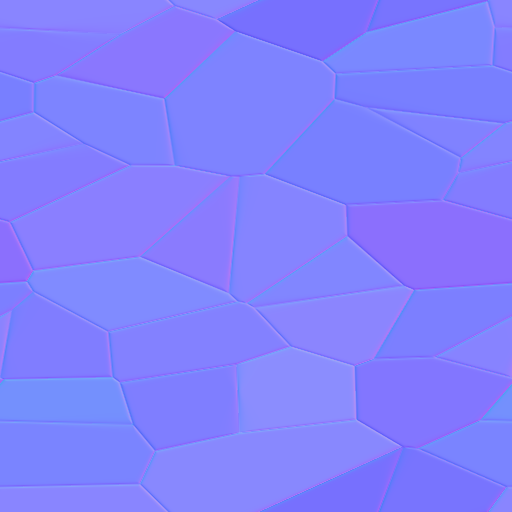
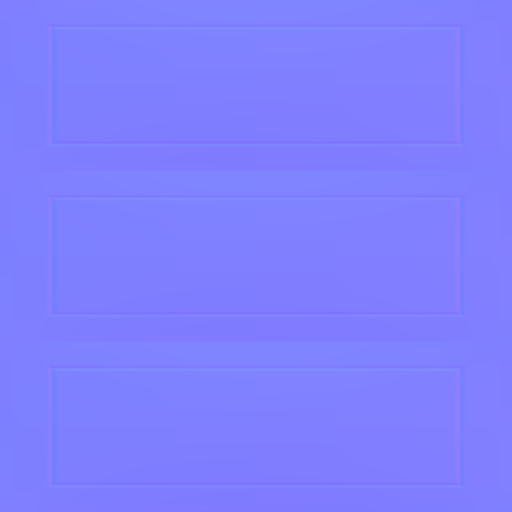
Faldón de sillería y enredaderas en los bordes de la lámina, cristal de aviso en paneles limpios y tono por losa

diff --git a/app/src/render/tunnelkit.js b/app/src/render/tunnelkit.js
@@ -12,7 +12,8 @@ import { ROW_M } from '../sim/game.js';
 import { loadModel, loadTexture } from './assets.js';
 import { stylize } from './stylize.js';
 
-const MAXI = (ROWS + 4) * LANES;
+const MAXI = (ROWS + 4) * (LANES + 2);          // + los dos faldones de la lámina abierta
+const SKIRT_H = 1.5;                            // alto del faldón de piedra bajo cada borde
 const HALF_W = 1.035, LEN = 4.0;
 
 function patch(mat, crystal) {
@@ -21,7 +22,7 @@ function patch(mat, crystal) {
       .replace('#include <common>', `#include <common>
 attribute vec3 aC0; attribute vec3 aC1; attribute vec3 aC2; attribute vec3 aC3;
 attribute vec3 aN0; attribute vec3 aN1; attribute vec4 aWarn;
-varying vec4 vWarn; varying float vFacet;
+varying vec4 vWarn; varying float vFacet; varying float vTile;
 vec3 cellPos(vec3 p, out vec3 Tx, out vec3 Ny, out vec3 Tz){
   // X del kit va de C1 a C0 (no al revés): así la base (X, Y hacia dentro, Z adelante) es
   // dextrógira y la losa no sale reflejada (se verían sus caras de abajo)
@@ -38,13 +39,15 @@ vec3 objectNormal = normalize(_tx * normal.x + _ny * normal.y + _tz * normal.z);
 vec3 objectTangent = normalize(_tx * tangent.x + _ny * tangent.y + _tz * tangent.z);
 #endif`)
       .replace('#include <begin_vertex>', `vec3 transformed = cellPos(position, _tx, _ny, _tz);
-vWarn = aWarn; vFacet = fract(sin(dot(position.xz, vec2(12.9898, 78.233))) * 43758.5453);`);
+vWarn = aWarn; vTile = fract(sin(dot(aC0, vec3(12.9898, 78.233, 37.719))) * 43758.5453); vFacet = fract(sin(dot(position.xz, vec2(12.9898, 78.233))) * 43758.5453);`);
     sh.fragmentShader = sh.fragmentShader
-      .replace('#include <common>', '#include <common>\nvarying vec4 vWarn; varying float vFacet;\nuniform float uGlowK;')
+      .replace('#include <common>', '#include <common>\nvarying vec4 vWarn; varying float vFacet; varying float vTile;\nuniform float uGlowK;')
       .replace('#include <color_fragment>', crystal ? `#include <color_fragment>
 // cristal del aviso: apagado = pastel, encendido = color vivo
 float on = clamp((vWarn.a - 0.42) / 0.58, 0.0, 1.0);
-diffuseColor.rgb *= mix(mix(vWarn.rgb, vec3(1.0), 0.35), vWarn.rgb * mix(vec3(1.0), vWarn.rgb, 0.6), on);` : '#include <color_fragment>')
+diffuseColor.rgb *= mix(mix(vWarn.rgb, vec3(1.0), 0.35), vWarn.rgb * mix(vec3(1.0), vWarn.rgb, 0.6), on);` : `#include <color_fragment>
+// cada losa con su tono (±6 %) y alguna algo más verdosa, como piedra de verdad
+diffuseColor.rgb *= (0.94 + 0.12 * vTile) * mix(vec3(1.0), vec3(0.93, 1.02, 0.9), step(0.82, fract(vTile * 7.13)));`)
       .replace('#include <emissivemap_fragment>', crystal ? `#include <emissivemap_fragment>
 totalEmissiveRadiance += vWarn.rgb * (0.08 + 0.35 * on) * uGlowK;` : '#include <emissivemap_fragment>');
     sh.uniforms.uGlowK = mat.userData.uGlowK;
@@ -109,6 +112,7 @@ export class TunnelKit {
     const sec = section(game.fold);
     const lit = game.litStrips();
     const kNear = Math.floor(game.s) - 2;
+    const closed = game.fold === 30 || game.fold === -30;
     const cnt = { tile_stone: 0, tile_arch: 0, tile_crystal: 0, tile_crystal_arch: 0 };
     const v = this._v, n = this._n;
     if (this.stoneMat) this.stoneMat.color.copy(tint);
@@ -142,6 +146,29 @@ export class TunnelKit {
         n.copy(ra.X).multiplyScalar(nx).addScaledVector(ra.U, ny); g.aN0.setXYZ(i, n.x, n.y, n.z);
         n.copy(rb.X).multiplyScalar(nx).addScaledVector(rb.U, ny); g.aN1.setXYZ(i, n.x, n.y, n.z);
         g.aWarn.setXYZW(i, wr, wg, wb, wa);
+      }
+      // lámina abierta: un faldón de sillería cuelga de cada borde, así la pista tiene grosor de
+      // obra (como el anillo del concepto C·3) y no es una cinta de papel. Usa la losa lisa del
+      // kit con las esquinas en el borde y 1,5 m por debajo; la base queda dextrógira igual que en
+      // la calzada (X = C0 − C1, Y = normal de la cara, Z = adelante).
+      if (!closed && this.meshes.tile_stone) {
+        const vm = this.meshes.tile_stone, g = vm.attrs, b = sec.b, d = sec.d;
+        for (const side of [0, 1]) {
+          const c = side ? LANES - 1 : 0;
+          const vx = b[side ? LANES * 2 : 0], vy = b[side ? LANES * 2 + 1 : 1];
+          const tx = d[c * 2], ty = d[c * 2 + 1], nx = -ty, ny = tx;            // tangente y normal del carril del borde
+          const lx = vx - nx * SKIRT_H, ly = vy - ny * SKIRT_H;                  // pie del faldón
+          const [ax, ay, bx, by] = side ? [vx, vy, lx, ly] : [lx, ly, vx, vy];   // C0, C1
+          const ox = side ? tx : -tx, oy = side ? ty : -ty;                      // hacia fuera de la pista
+          const i = cnt.tile_stone++;
+          toWorld(ra, ax, ay, v); g.aC0.setXYZ(i, v.x, v.y, v.z);
+          toWorld(ra, bx, by, v); g.aC1.setXYZ(i, v.x, v.y, v.z);
+          toWorld(rb, bx, by, v); g.aC2.setXYZ(i, v.x, v.y, v.z);
+          toWorld(rb, ax, ay, v); g.aC3.setXYZ(i, v.x, v.y, v.z);
+          n.copy(ra.X).multiplyScalar(ox).addScaledVector(ra.U, oy); g.aN0.setXYZ(i, n.x, n.y, n.z);
+          n.copy(rb.X).multiplyScalar(ox).addScaledVector(rb.U, oy); g.aN1.setXYZ(i, n.x, n.y, n.z);
+          g.aWarn.setXYZW(i, 0, 0, 0, 0);
+        }
       }
     }
     for (const [key, vm] of Object.entries(this.meshes)) {

diff --git a/app/src/render/tunnelprops.js b/app/src/render/tunnelprops.js
@@ -34,22 +34,24 @@ export class TunnelProps {
   constructor(scene) {
     this.scene = scene; this.ready = false;
     this.m = new THREE.Matrix4(); this.T = new THREE.Vector3(); this.N = new THREE.Vector3(); this.O = new THREE.Vector3(); this.p = new THREE.Vector3(); this.q = new THREE.Vector3();
-    Promise.all(['rib_stone', 'crystal_cluster', 'vine_edge'].map((n) => loadModel(n))).then(([rib, cry, vine]) => {
+    Promise.all(['rib_stone', 'crystal_cluster', 'vine_edge', 'vine_hang'].map((n) => loadModel(n))).then(([rib, cry, vine, hang]) => {
       if (rib) this.rib = instanced(rib, 12 * 6, scene);
-      if (cry) this.cry = instanced(cry, 12 * 6, scene);
+      if (cry) this.cry = instanced(cry, 12 * 6 + 40, scene);
       if (vine) this.vine = instanced(vine, 160, scene);
+      if (hang) { hang.traverse((o) => { if (o.isMesh) o.material.side = THREE.DoubleSide; }); this.hang = instanced(hang, 80, scene); }
       this.ready = !!(rib || cry || vine);
     });
   }
 
-  setVisible(v) { for (const k of ['rib', 'cry', 'vine']) this[k] && this[k].setVisible(v); }
+  setVisible(v) { for (const k of ['rib', 'cry', 'vine', 'hang']) this[k] && this[k].setVisible(v); }
 
   update(game, track) {
     if (!this.ready) return;
     const sec = section(game.fold);
     const { m, T, N, O, p, q } = this;
     const kNear = Math.floor(game.s) - 2;
-    this.rib && this.rib.begin(); this.cry && this.cry.begin(); this.vine && this.vine.begin();
+    this.rib && this.rib.begin(); this.cry && this.cry.begin(); this.vine && this.vine.begin(); this.hang && this.hang.begin();
+    const closed = game.fold === 30 || game.fold === -30;
     for (let k = kNear; k <= game.kLast; k++) {
       const r = track.rings.get(k); if (!r || game.inGap(k)) continue;
       const rib = k % 8 === 0;
@@ -80,7 +82,31 @@ export class TunnelProps {
           this.vine.add(m);
         }
       }
+      // lámina abierta: enredaderas que cuelgan por el faldón de cada borde y algún cristal en el
+      // canto, siempre por fuera de la calzada (nada que invada un carril)
+      if (!closed) {
+        const b = sec.b, d = sec.d;
+        for (const side of [0, 1]) {
+          const c = side ? LANES - 1 : 0;
+          const tx = d[c * 2], ty = d[c * 2 + 1], sg = side ? 1 : -1;
+          N.copy(r.X).multiplyScalar(-ty).addScaledVector(r.U, tx);                 // normal de la calzada
+          T.copy(r.X).multiplyScalar(tx * sg).addScaledVector(r.U, ty * sg);         // hacia fuera
+          toWorld(r, b[side ? LANES * 2 : 0], b[side ? LANES * 2 + 1 : 1], p);
+          if (this.hang && h(k, 20 + side) < 0.6) {
+            O.crossVectors(r.F, N).normalize();
+            m.makeBasis(r.F, N, O); m.scale(q.set(2.2, 1.0 + 0.9 * h(k, 30 + side), 2.2));
+            m.setPosition(q.copy(p).addScaledVector(T, 0.06).addScaledVector(N, 0.02));
+            this.hang.add(m);
+          }
+          if (this.cry && k % 6 === side * 3) {
+            O.crossVectors(T, r.F).normalize();
+            m.makeBasis(O, T, r.F); m.scale(q.set(1.8, 1.8, 1.8));
+            m.setPosition(q.copy(p).addScaledVector(N, -0.5).addScaledVector(T, 0.1));
+            this.cry.add(m);
+          }
+        }
+      }
     }
-    this.rib && this.rib.end(); this.cry && this.cry.end(); this.vine && this.vine.end();
+    this.rib && this.rib.end(); this.cry && this.cry.end(); this.vine && this.vine.end(); this.hang && this.hang.end();
   }
 }

diff --git a/tools/blender/build_tunnel_kit.py b/tools/blender/build_tunnel_kit.py
@@ -521,35 +521,36 @@ def build_stone_textures():
 
 
 def build_crystal_textures(seed=5):
+    """Cristal de aviso: paneles limpios (3 a lo largo, como la geometría) con el centro más
+    oscuro, el canto luminoso y un filete interior; abombado suave para que pille los brillos.
+    (Antes eran facetas de Voronoi y se leían como plástico roto.)"""
     n = 512
     dx, dz = W / n, L / n
-    X = (np.arange(n) + 0.5) * dx
+    X = (np.arange(n) + 0.5) * dx - HW
     Z = (np.arange(n) + 0.5) * dz
     XX, ZZ = np.meshgrid(X, Z)
-    rng = np.random.default_rng(seed)
-    K = 30
-    sx, sz = rng.uniform(0, W, K), rng.uniform(0, L, K)
-    d1 = np.full(XX.shape, 9.0)
-    d2 = np.full(XX.shape, 9.0)
-    idn = np.zeros(XX.shape, np.int32)
-    for i in range(K):
-        d = np.hypot(wrapd(XX - sx[i], W), wrapd(ZZ - sz[i], L))
-        closer = d < d1
-        d2 = np.where(closer, d1, np.minimum(d2, d))
-        idn = np.where(closer, i, idn)
-        d1 = np.where(closer, d, d1)
-    w = d2 - d1
-    slx, slz = rng.normal(0, 0.07, K), rng.normal(0, 0.07, K)
-    groove = -0.004 * np.exp(-w / 0.01)
-    gx = (np.roll(groove, -1, 1) - np.roll(groove, 1, 1)) / (2 * dx) + slx[idn]
-    gz = (np.roll(groove, -1, 0) - np.roll(groove, 1, 0)) / (2 * dz) + slz[idn]
+    m = 0.05
+    k = np.clip(np.floor(ZZ / (2 * CL)), 0, 2)
+    cz = (k + 0.5) * 2 * CL
+    hz = CL - m
+    hx = HW - m
+    # distancia al borde del panel (en metros) y posición normalizada
+    ex = hx - np.abs(XX)
+    ez = hz - np.abs(ZZ - cz)
+    e = np.minimum(ex, ez)
+    ux, uz = XX / hx, (ZZ - cz) / hz
+    rim = np.exp(-np.clip(e, 0, None) / 0.07)                      # canto luminoso
+    inset = np.exp(-((e - 0.16) / 0.012) ** 2)                      # filete interior
+    centre = np.clip(1 - np.maximum(np.abs(ux), np.abs(uz)), 0, 1)
+    alb = 0.62 + 0.1 * (1 - centre) + 0.3 * rim + 0.14 * inset
+    save_jpg(os.path.join(KIT, 'crystal_albedo.jpg'), np.repeat(np.clip(alb, 0, 1)[..., None], 3, -1), 90)
+    # abombado: altura suave con máximo en el centro, y una ranura en el filete
+    Hh = 0.012 * (1 - ux ** 2) * (1 - uz ** 2) - 0.0015 * inset
+    gx = np.gradient(Hh, dx, axis=1)
+    gz = np.gradient(Hh, dz, axis=0)
     N = np.stack([-gx, -gz, np.ones_like(gx)], -1)
     N /= np.linalg.norm(N, axis=-1, keepdims=True)
     save_png(os.path.join(KIT, 'crystal_normal.png'), N * 0.5 + 0.5)
-    bright = rng.uniform(0.78, 0.95, K)
-    alb = bright[idn] + 0.18 * np.exp(-w / 0.006)
-    alb = np.clip(alb, 0, 1)
-    save_jpg(os.path.join(KIT, 'crystal_albedo.jpg'), np.repeat(alb[..., None], 3, -1), 90)
 
 
 # ------------------------------------------------------------------ guardar imágenes
